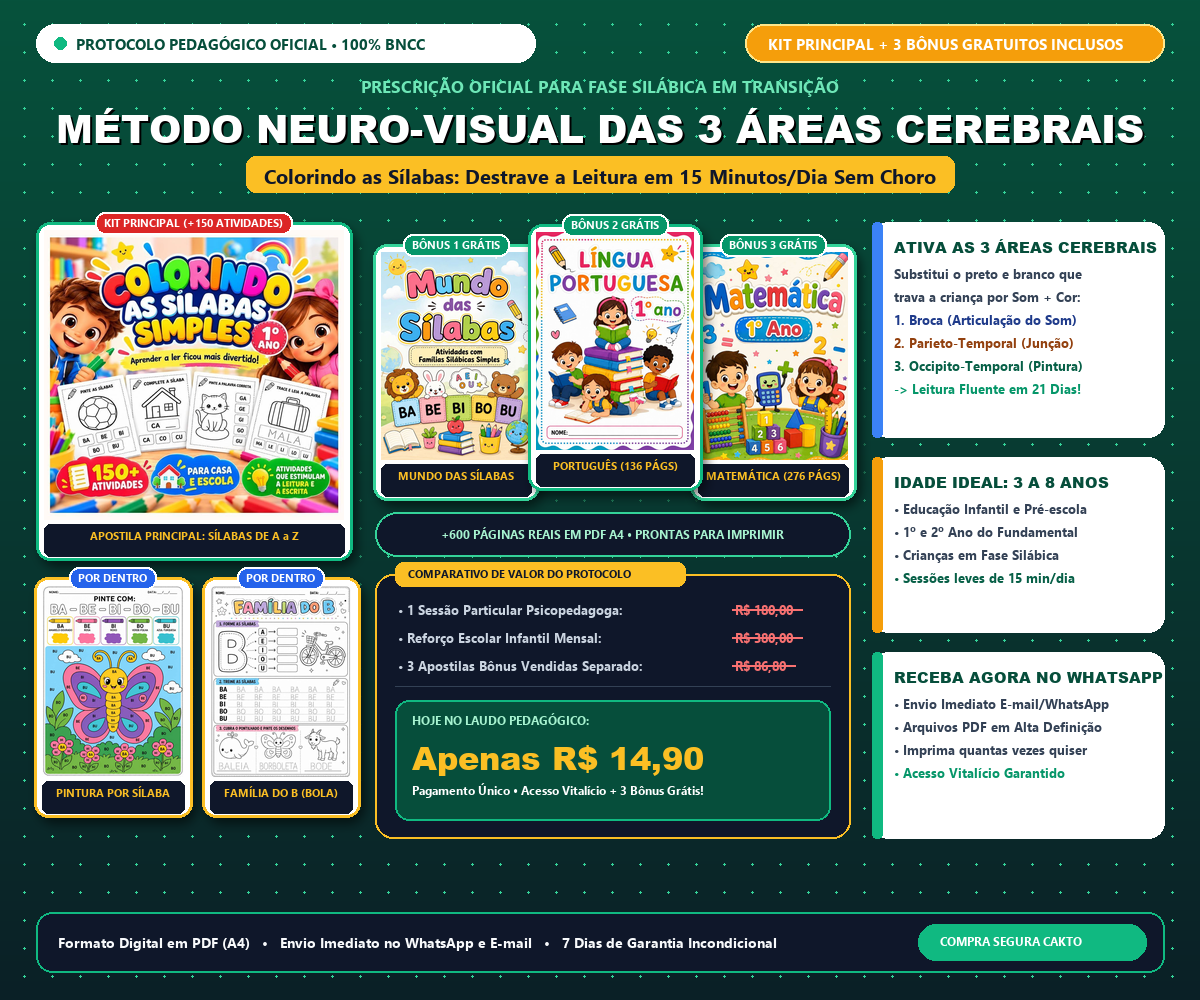
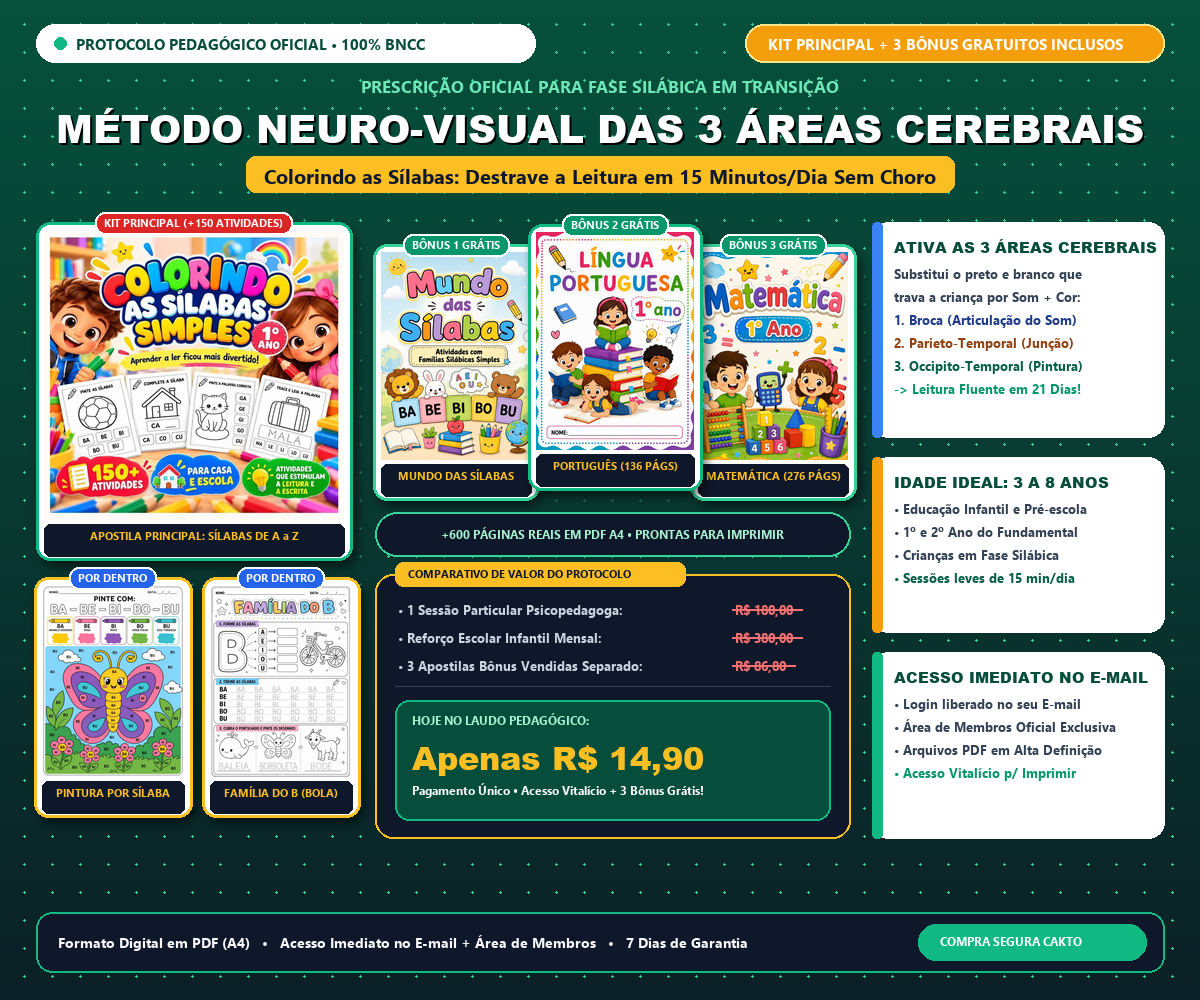
fix(copy): change delivery notice to Email + Area de Membros (remove WhatsApp delivery promise)

Changed region(s): [[0.74, 0.651, 0.9558, 0.775], [0.2467, 0.93, 0.6475, 0.961]]

diff --git a/oferta.html b/oferta.html
@@ -985,7 +985,7 @@
 
             <div class="mt-3 flex items-center justify-center gap-4 text-[11px] text-slate-200 font-bold">
               <span class="flex items-center gap-1">
-                <i data-lucide="zap" class="w-3.5 h-3.5 text-amber-400"></i> Chega Agora no WhatsApp/E-mail
+                <i data-lucide="zap" class="w-3.5 h-3.5 text-amber-400"></i> Acesso Imediato no E-mail + Área de Membros
               </span>
               <span class="flex items-center gap-1">
                 <i data-lucide="shield-check" class="w-3.5 h-3.5 text-emerald-400"></i> 7 Dias de Garantia
